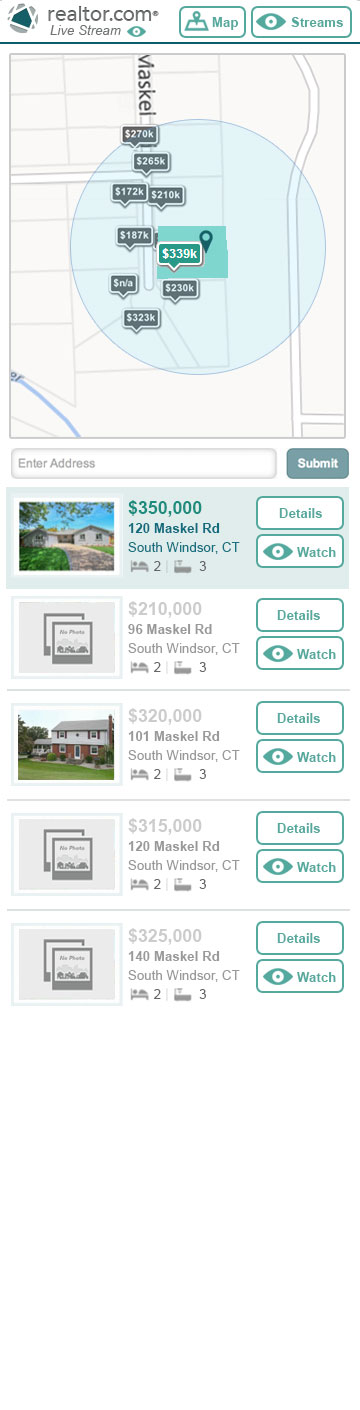
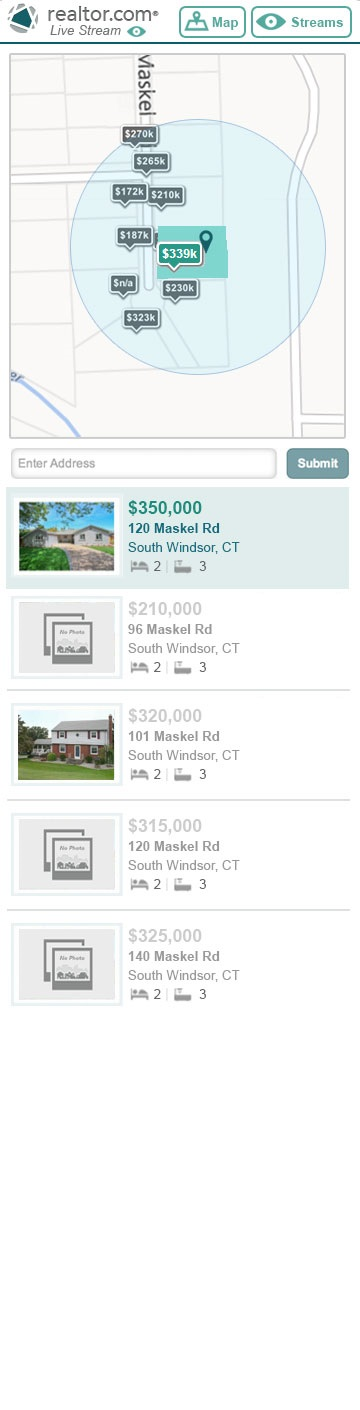
finish new style

Changed region(s): [[0.7028, 0.3433, 0.9778, 0.7177], [0.4278, 0.156, 0.55, 0.1872]]

diff --git a/content.html b/content.html
@@ -32,6 +32,17 @@
 			location.href = 'reports.html';
 			return false;
 		});
+		
+		$('.watch-stream').click(function(){
+			var cntctrl = $(this);
+			var val = cntctrl.text();
+			if(val == 'Watch'){
+				cntctrl.html('Stop');
+			}else{
+				cntctrl.html('Watch');
+			}
+			return false;
+		});
 	})
 	</script>
 	<div id="page-header">
@@ -43,10 +54,25 @@
 		<input type="text" name="address" class="blur-border" value="Enter Address"/>
 		<a id="lnk-search" class="reversed-button" href="#">Submit</a>
 	</div>
-	<div id="dv-porp01" class="property-item-selected clickable"></div>
-	<div id="dv-porp02" class="property-item clickable"></div>
-	<div id="dv-porp03" class="property-item clickable"></div>
-	<div id="dv-porp04" class="property-item clickable"></div>
-	<div id="dv-porp05" class="property-item clickable"></div>
+	<div id="dv-porp01" class="property-item-selected">
+		<a id="lnk-open-detail-01" class="button open-detail" href="reports.html">Details</a>
+		<a id="lnk-watch-stream-01" class="open-eye-button watch-stream" href="#">Watch</a>
+	</div>
+	<div id="dv-porp02" class="property-item">
+		<a id="lnk-open-detail-02" class="button open-detail" href="reports.html">Details</a>
+		<a id="lnk-watch-stream-02" class="open-eye-button watch-stream" href="#">Watch</a>
+	</div>
+	<div id="dv-porp03" class="property-item">
+		<a id="lnk-open-detail-03" class="button open-detail" href="reports.html">Details</a>
+		<a id="lnk-watch-stream-03" class="open-eye-button watch-stream" href="#">Watch</a>
+	</div>
+	<div id="dv-porp04" class="property-item">
+		<a id="lnk-open-detail-04" class="button open-detail" href="reports.html">Details</a>
+		<a id="lnk-watch-stream-04" class="open-eye-button watch-stream" href="#">Watch</a>
+	</div>
+	<div id="dv-porp05" class="property-item">
+		<a id="lnk-open-detail-05" class="button open-detail" href="reports.html">Details</a>
+		<a id="lnk-watch-stream-05" class="open-eye-button watch-stream" href="#">Watch</a>
+	</div>
 </body>
 </html>

diff --git a/streams.html b/streams.html
@@ -31,15 +31,41 @@
 			location.href = 'reports.html';
 			return false;
 		});
-	})
+		$('.watch-stream').click(function(){
+			var cntctrl = $(this);
+			var val = cntctrl.text();
+			if(val == 'Watch'){
+				cntctrl.html('Stop');
+			}else{
+				cntctrl.html('Watch');
+			}
+			return false;
+		});
+	});
 	</script>
 	<div id="page-header">
 	</div>
 	<a id="lnk-open-map" class="open-map-button" href="content.html">Map</a>
 	<a id="lnk-open-stream" class="open-eye-button" href="streams.html">Streams</a>
-	<div id="dv-stream01" class="stream-item"></div>
-	<div id="dv-stream02" class="stream-item"></div>
-	<div id="dv-stream03" class="stream-item"></div>
-	<div id="dv-stream04" class="stream-item"></div>
+	<div id="dv-stream01" class="stream-item">
+		<a id="lnk-watch-stream-01" class="open-eye-button watch-stream" href="#">Watch</a>
+		<a id="lnk-delete-stream-01" class="button remove-stream" href="#">Remove</a>
+		<a id="lnk-update-stream-01" class="button update-stream" href="#">Update 3</a>
+	</div>
+	<div id="dv-stream02" class="stream-item">
+		<a id="lnk-watch-stream-02" class="open-eye-button watch-stream" href="#">Watch</a>
+		<a id="lnk-delete-stream-02" class="button remove-stream" href="#">Remove</a>
+		<a id="lnk-update-stream-02" class="button update-stream" href="#">Update 3</a>
+	</div>
+	<div id="dv-stream03" class="stream-item">
+		<a id="lnk-watch-stream-03" class="open-eye-button watch-stream" href="#">Watch</a>
+		<a id="lnk-delete-stream-03" class="button remove-stream" href="#">Remove</a>
+		<a id="lnk-update-stream-03" class="button update-stream" href="#">Update 3</a>
+	</div>
+	<div id="dv-stream04" class="stream-item">
+		<a id="lnk-watch-stream-04" class="open-eye-button watch-stream" href="#">Watch</a>
+		<a id="lnk-delete-stream-04" class="button remove-stream" href="#">Remove</a>
+		<a id="lnk-update-stream-04" class="button update-stream" href="#">Update 3</a>
+	</div>
 </body>
 </html>

diff --git a/style/all.css b/style/all.css
@@ -37,15 +37,29 @@
 .dropdown-button{
 	background-image: url(../images/asset.png);
     background-repeat: no-repeat;
-    background-position: 50px -115px;
+    background-position: 43px -115px;
 	text-decoration:none;
 	border-style:solid;
 	border-width:1px;
 	border-color:#008888;
 	border-radius:5px;
-	padding:5px 35px 5px 5px;
+	padding:5px 20px 5px 5px;
 	color:#008888;
-	font-size:13px;
+	font-size:12px;
+}
+
+#lnk-change-radius{
+	width:38px;
+}
+
+#lnk-change-comparables{
+    background-position: 72px -115px;
+	width:71px;
+}
+
+#lnk-change-status{
+    background-position: 60px -115px;
+	width:56px;
 }
 
 .open-eye-button{
@@ -257,20 +271,63 @@
     background-position: 0 -52px;
 	background-size: 324px 1300px;
 	width:100%;
-	height:100px;
+	height:130px;
 }
 
 #dv-stream01{
 }
 
 #dv-stream02{
-    background-position: 0 -152px;
+    background-position: 0 -182px;
 }
 
 #dv-stream03{
-    background-position: 0 -252px;
+    background-position: 0 -312px;
 }
 
 #dv-stream04{
-    background-position: 0 -352px;
+    background-position: 0 -442px;
+}
+
+a.watch-stream, a.open-detail, a.remove-stream, a.update-stream{
+	font-size:12px;
+	position:relative;
+	display:block;
+	background-color:white;
+	padding-top:9px;
+	padding-bottom:8px;
+	left:228px;
+}
+
+.watch-stream{
+	top:16px;
+	width:35px;
+    background-position: 0 -66px;
+}
+
+.open-detail{
+	width:70px;
+	top:12px;
+}
+
+.stream-item .watch-stream{
+	top:4px;
+	width:35px;
+    background-position: 0 -69px;
+}
+
+.stream-item .watch-stream, .stream-item .remove-stream, .stream-item .update-stream{
+	padding-top:5px;
+	padding-bottom:5px;
+}
+
+.remove-stream{
+	width:70px;
+	top:9px;
+}
+
+.update-stream{
+	width:70px;
+	top:14px;
+	color:red;
 }

diff --git a/livestream.html b/livestream.html
@@ -67,7 +67,16 @@
 	<div id="dv-filters">
 		<span>Filter: </span>
 		<div class="dropdown-button-ctrl">
-			<a id="lnk-change-radius" class="dropdown-button" href="#">5 Miles</a>
+			<a id="lnk-change-comparables" class="dropdown-button" href="#">Comparables</a>
+			<div class="dropdown-values">
+				<ul>
+					<li>Comparables</li>
+					<li>Others</li>
+				</ul>
+			</div>
+		</div>
+		<div class="dropdown-button-ctrl">
+			<a id="lnk-change-radius" class="dropdown-button" href="#">1 Miles</a>
 			<div class="dropdown-values">
 				<ul>
 					<li>1 Mile</li>
@@ -76,6 +85,15 @@
 					<li>5 Miles</li>
 					<li>8 Miles</li>
 					<li>13 Miles</li>
+				</ul>
+			</div>
+		</div>
+		<div class="dropdown-button-ctrl">
+			<a id="lnk-change-status" class="dropdown-button" href="#">On Market</a>
+			<div class="dropdown-values">
+				<ul>
+					<li>On Market</li>
+					<li>Off Market</li>
 				</ul>
 			</div>
 		</div>
